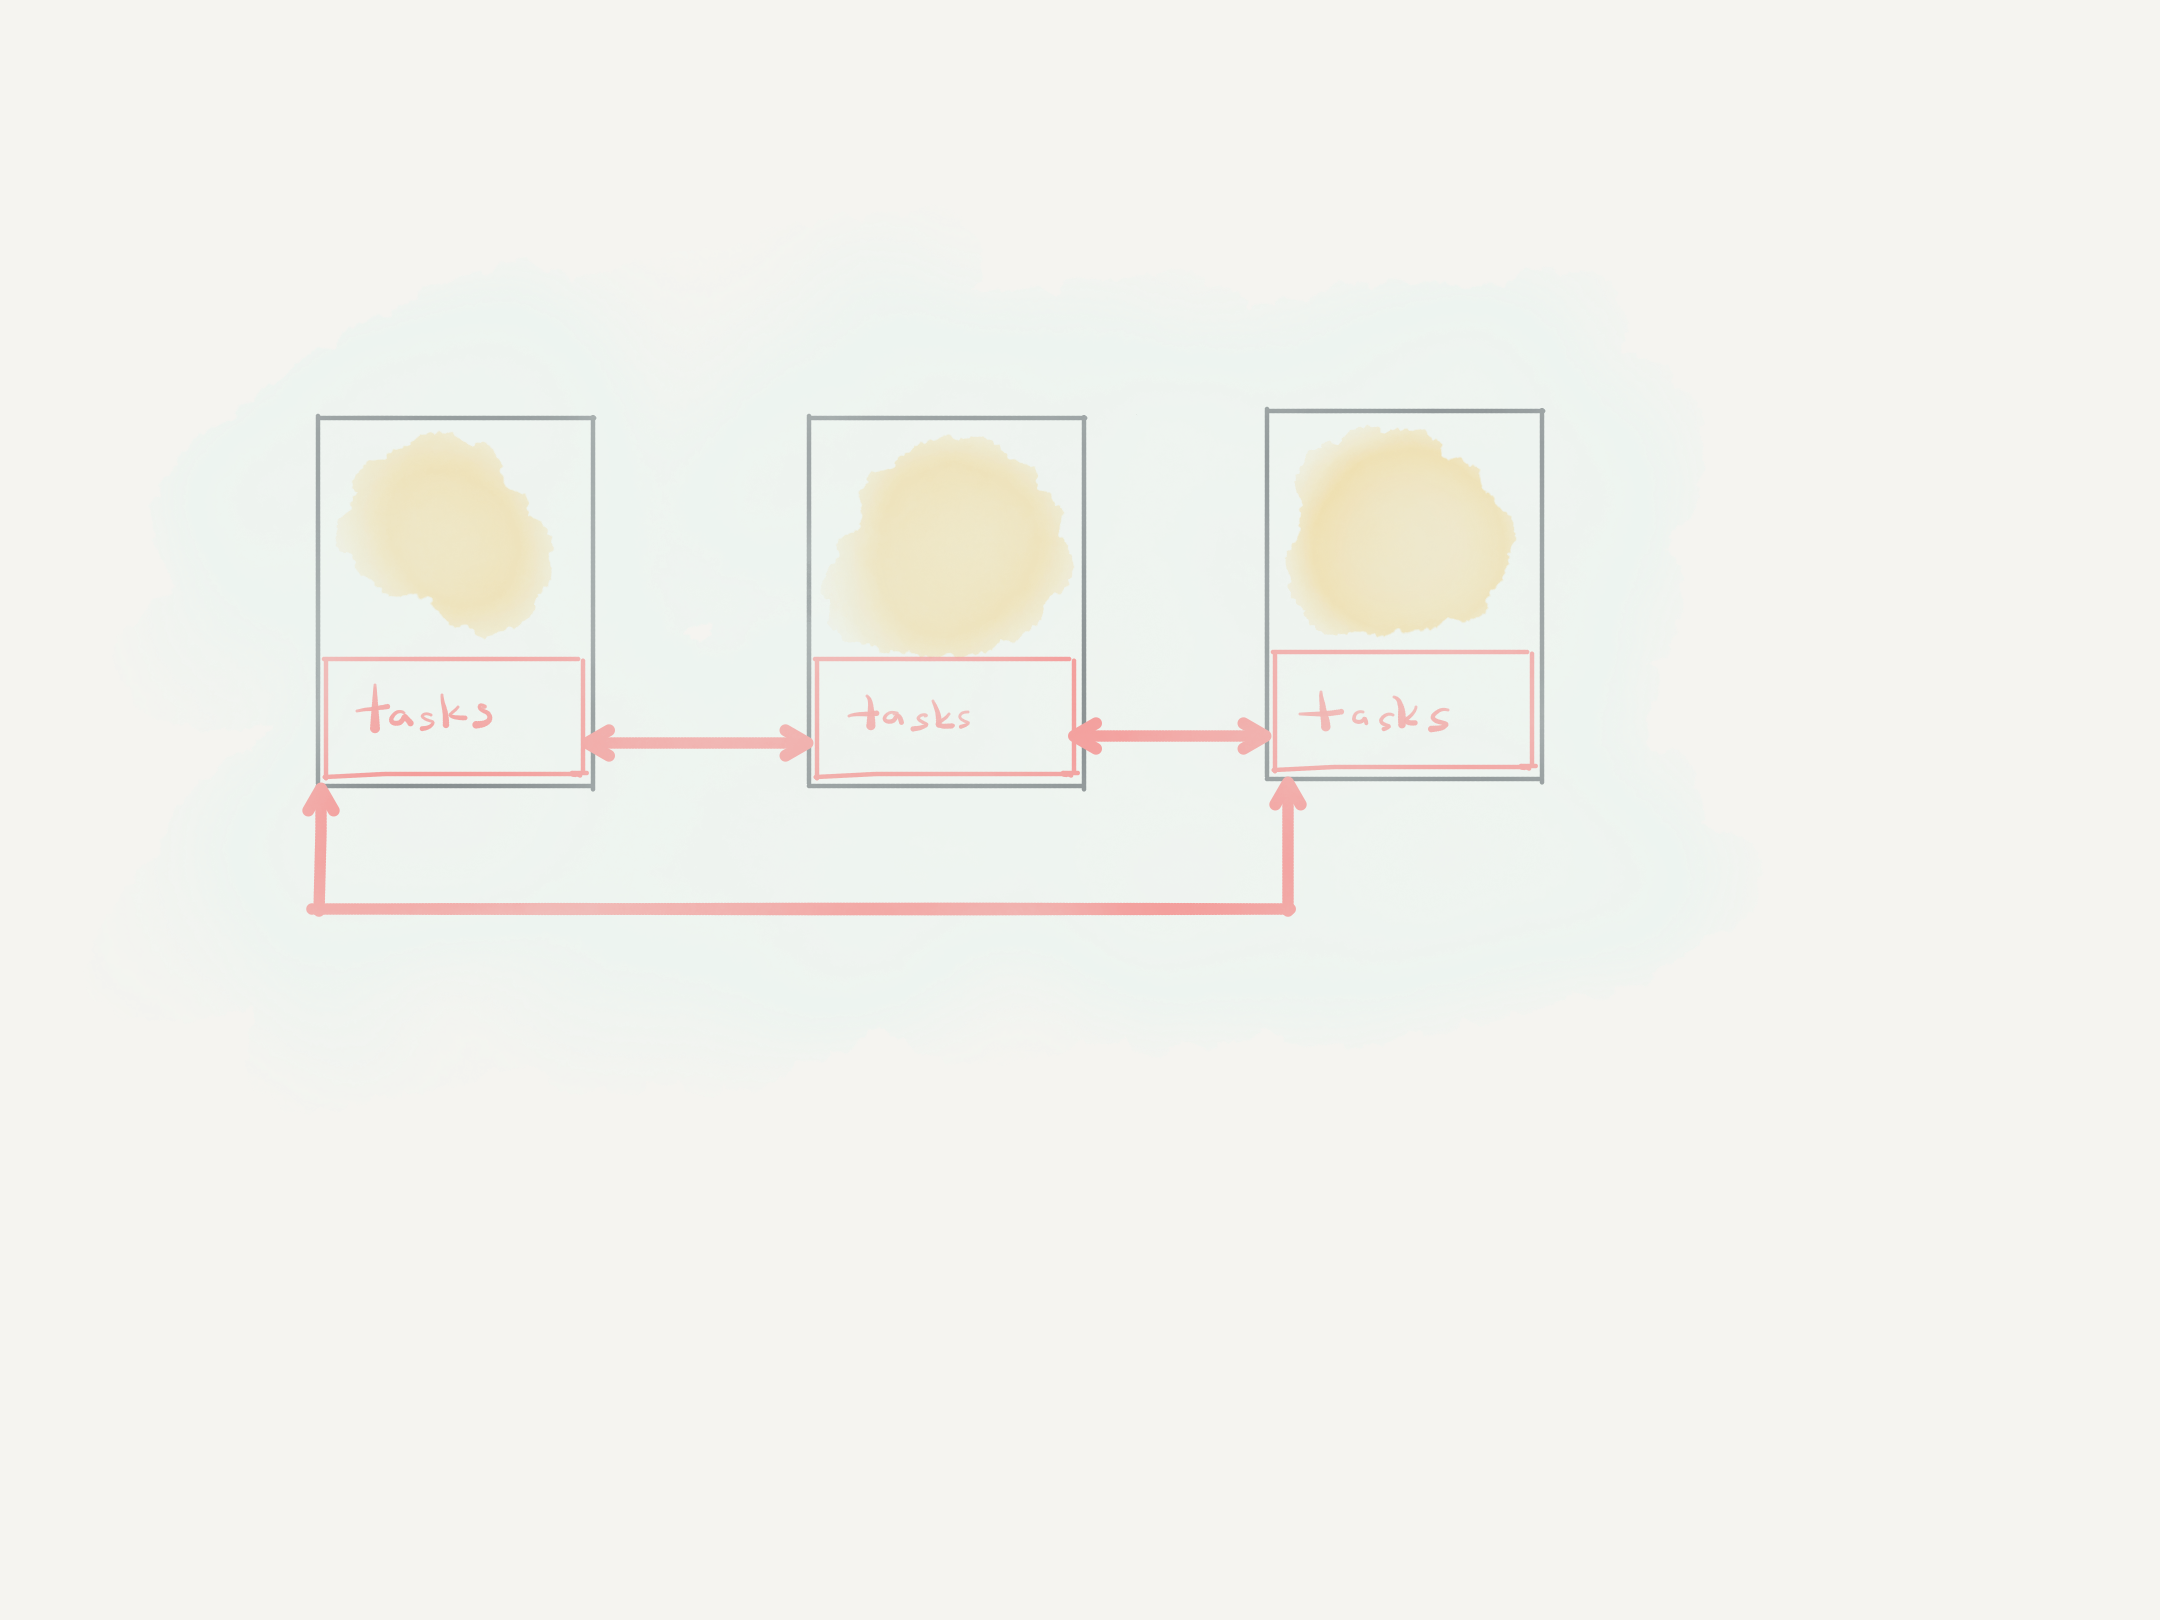
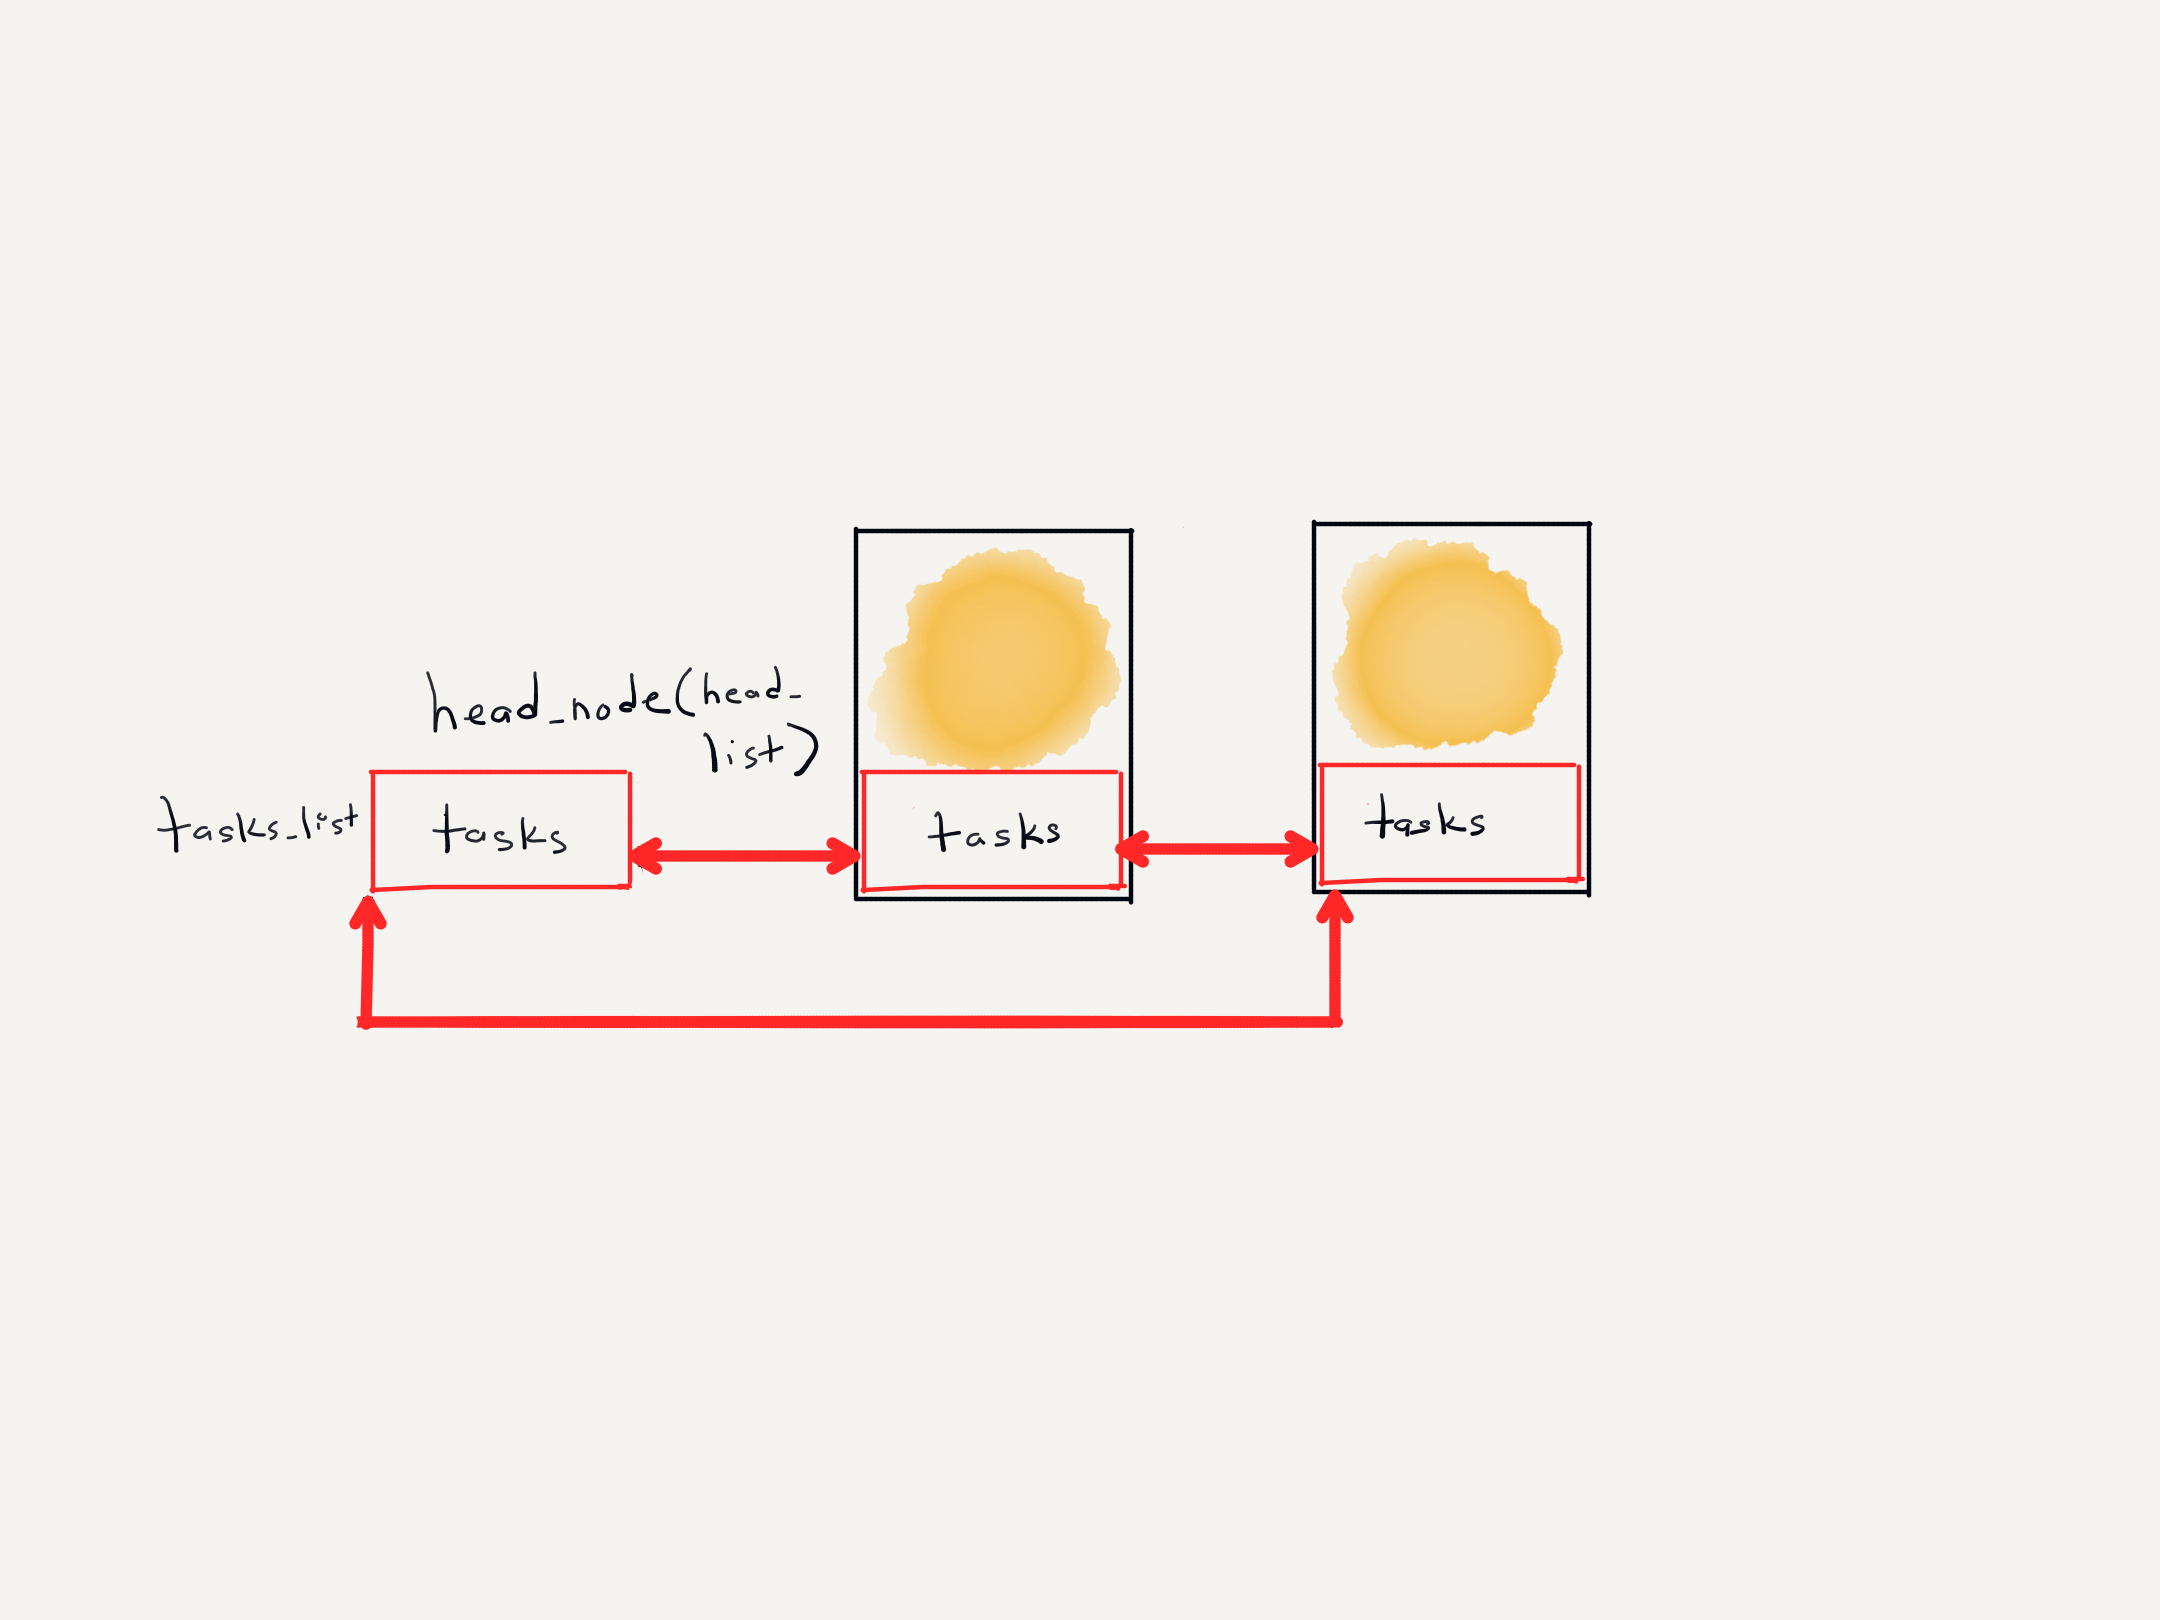
updates the blog: updates linked list

Changed region(s): [[0.062, 0.2469, 0.7444, 0.6481]]

diff --git a/linked/list,/linux,/linux/kernel/list/2020/11/20/generic-linkedin-list-c.html b/linked/list,/linux,/linux/kernel/list/2020/11/20/generic-linkedin-list-c.html
@@ -17,7 +17,7 @@
 <meta name="twitter:card" content="summary" />
 <meta property="twitter:title" content="How Linux Kernel implements generic linked list: part 1" />
 <script type="application/ld+json">
-{"mainEntityOfPage":{"@type":"WebPage","@id":"http://localhost:4000/linked/list,/linux,/linux/kernel/list/2020/11/20/generic-linkedin-list-c.html"},"url":"http://localhost:4000/linked/list,/linux,/linux/kernel/list/2020/11/20/generic-linkedin-list-c.html","description":"Circular Doubly Linked List &lt;- - -&gt; is one of the most widely used data structure in the Linux system implementation. It holds importance in the scheduling of the processes(RunQueue), the buffers cache, device driver implementation, and so on.","headline":"How Linux Kernel implements generic linked list: part 1","dateModified":"2020-11-20T22:12:12+00:00","datePublished":"2020-11-20T22:12:12+00:00","@type":"BlogPosting","@context":"https://schema.org"}</script>
+{"mainEntityOfPage":{"@type":"WebPage","@id":"http://localhost:4000/linked/list,/linux,/linux/kernel/list/2020/11/20/generic-linkedin-list-c.html"},"url":"http://localhost:4000/linked/list,/linux,/linux/kernel/list/2020/11/20/generic-linkedin-list-c.html","headline":"How Linux Kernel implements generic linked list: part 1","datePublished":"2020-11-20T22:12:12+00:00","dateModified":"2020-11-20T22:12:12+00:00","description":"Circular Doubly Linked List &lt;- - -&gt; is one of the most widely used data structure in the Linux system implementation. It holds importance in the scheduling of the processes(RunQueue), the buffers cache, device driver implementation, and so on.","@type":"BlogPosting","@context":"https://schema.org"}</script>
 <!-- End Jekyll SEO tag -->
 <link rel="stylesheet" href="/assets/main.css"><link type="application/atom+xml" rel="alternate" href="http://localhost:4000/feed.xml" title="Cognitive Perception" /></head>
 <body><header class="site-header" role="banner">

diff --git a/kubernetes,/client-go/2020/11/24/mock-the-watch-api.html b/kubernetes,/client-go/2020/11/24/mock-the-watch-api.html
@@ -17,7 +17,7 @@
 <meta name="twitter:card" content="summary" />
 <meta property="twitter:title" content="Unit test client-go watch API to mock the watch events in Kubernetes" />
 <script type="application/ld+json">
-{"mainEntityOfPage":{"@type":"WebPage","@id":"http://localhost:4000/kubernetes,/client-go/2020/11/24/mock-the-watch-api.html"},"url":"http://localhost:4000/kubernetes,/client-go/2020/11/24/mock-the-watch-api.html","description":"Unit test client-go watch API to mock the watch events using client-go testing package","headline":"Unit test client-go watch API to mock the watch events in Kubernetes","dateModified":"2020-11-24T21:00:12+00:00","datePublished":"2020-11-24T21:00:12+00:00","@type":"BlogPosting","@context":"https://schema.org"}</script>
+{"mainEntityOfPage":{"@type":"WebPage","@id":"http://localhost:4000/kubernetes,/client-go/2020/11/24/mock-the-watch-api.html"},"url":"http://localhost:4000/kubernetes,/client-go/2020/11/24/mock-the-watch-api.html","headline":"Unit test client-go watch API to mock the watch events in Kubernetes","datePublished":"2020-11-24T21:00:12+00:00","dateModified":"2020-11-24T21:00:12+00:00","description":"Unit test client-go watch API to mock the watch events using client-go testing package","@type":"BlogPosting","@context":"https://schema.org"}</script>
 <!-- End Jekyll SEO tag -->
 <link rel="stylesheet" href="/assets/main.css"><link type="application/atom+xml" rel="alternate" href="http://localhost:4000/feed.xml" title="Cognitive Perception" /></head>
 <body><header class="site-header" role="banner">

diff --git a/kubernetes,/client-go/2020/11/24/kuernetes-client-go-examples.html b/kubernetes,/client-go/2020/11/24/kuernetes-client-go-examples.html
@@ -17,7 +17,7 @@
 <meta name="twitter:card" content="summary" />
 <meta property="twitter:title" content="Examples of using Kubernetes client-go" />
 <script type="application/ld+json">
-{"mainEntityOfPage":{"@type":"WebPage","@id":"http://localhost:4000/kubernetes,/client-go/2020/11/24/kuernetes-client-go-examples.html"},"url":"http://localhost:4000/kubernetes,/client-go/2020/11/24/kuernetes-client-go-examples.html","description":"Background","headline":"Examples of using Kubernetes client-go","dateModified":"2020-11-24T15:00:12+00:00","datePublished":"2020-11-24T15:00:12+00:00","@type":"BlogPosting","@context":"https://schema.org"}</script>
+{"mainEntityOfPage":{"@type":"WebPage","@id":"http://localhost:4000/kubernetes,/client-go/2020/11/24/kuernetes-client-go-examples.html"},"url":"http://localhost:4000/kubernetes,/client-go/2020/11/24/kuernetes-client-go-examples.html","headline":"Examples of using Kubernetes client-go","datePublished":"2020-11-24T15:00:12+00:00","dateModified":"2020-11-24T15:00:12+00:00","description":"Background","@type":"BlogPosting","@context":"https://schema.org"}</script>
 <!-- End Jekyll SEO tag -->
 <link rel="stylesheet" href="/assets/main.css"><link type="application/atom+xml" rel="alternate" href="http://localhost:4000/feed.xml" title="Cognitive Perception" /></head>
 <body><header class="site-header" role="banner">

diff --git a/index.html b/index.html
@@ -15,7 +15,7 @@
 <meta name="twitter:card" content="summary" />
 <meta property="twitter:title" content="Cognitive Perception" />
 <script type="application/ld+json">
-{"url":"http://localhost:4000/","name":"Cognitive Perception","description":"Kubernetes/OpenShift and containers, Distributed systems, Cloud computing, Unix/Linux systems, Data structures and algorithms.","headline":"Cognitive Perception","@type":"WebSite","@context":"https://schema.org"}</script>
+{"url":"http://localhost:4000/","name":"Cognitive Perception","headline":"Cognitive Perception","description":"Kubernetes/OpenShift and containers, Distributed systems, Cloud computing, Unix/Linux systems, Data structures and algorithms.","@type":"WebSite","@context":"https://schema.org"}</script>
 <!-- End Jekyll SEO tag -->
 <link rel="stylesheet" href="/assets/main.css"><link type="application/atom+xml" rel="alternate" href="http://localhost:4000/feed.xml" title="Cognitive Perception" /></head>
 <body><header class="site-header" role="banner">

diff --git a/about/index.html b/about/index.html
@@ -15,7 +15,7 @@
 <meta name="twitter:card" content="summary" />
 <meta property="twitter:title" content="$ whoami" />
 <script type="application/ld+json">
-{"url":"http://localhost:4000/about/","name":"Cognitive Perception","description":"Kubernetes/OpenShift and containers, Distributed systems, Cloud computing, Unix/Linux systems, Data structures and algorithms.","headline":"$ whoami","@type":"WebSite","@context":"https://schema.org"}</script>
+{"url":"http://localhost:4000/about/","name":"Cognitive Perception","headline":"$ whoami","description":"Kubernetes/OpenShift and containers, Distributed systems, Cloud computing, Unix/Linux systems, Data structures and algorithms.","@type":"WebSite","@context":"https://schema.org"}</script>
 <!-- End Jekyll SEO tag -->
 <link rel="stylesheet" href="/assets/main.css"><link type="application/atom+xml" rel="alternate" href="http://localhost:4000/feed.xml" title="Cognitive Perception" /></head>
 <body><header class="site-header" role="banner">

diff --git a/404.html b/404.html
@@ -15,7 +15,7 @@
 <meta name="twitter:card" content="summary" />
 <meta property="twitter:title" content="Cognitive Perception" />
 <script type="application/ld+json">
-{"url":"http://localhost:4000/404.html","description":"Kubernetes/OpenShift and containers, Distributed systems, Cloud computing, Unix/Linux systems, Data structures and algorithms.","headline":"Cognitive Perception","@type":"WebPage","@context":"https://schema.org"}</script>
+{"url":"http://localhost:4000/404.html","headline":"Cognitive Perception","description":"Kubernetes/OpenShift and containers, Distributed systems, Cloud computing, Unix/Linux systems, Data structures and algorithms.","@type":"WebPage","@context":"https://schema.org"}</script>
 <!-- End Jekyll SEO tag -->
 <link rel="stylesheet" href="/assets/main.css"><link type="application/atom+xml" rel="alternate" href="http://localhost:4000/feed.xml" title="Cognitive Perception" /></head>
 <body><header class="site-header" role="banner">
